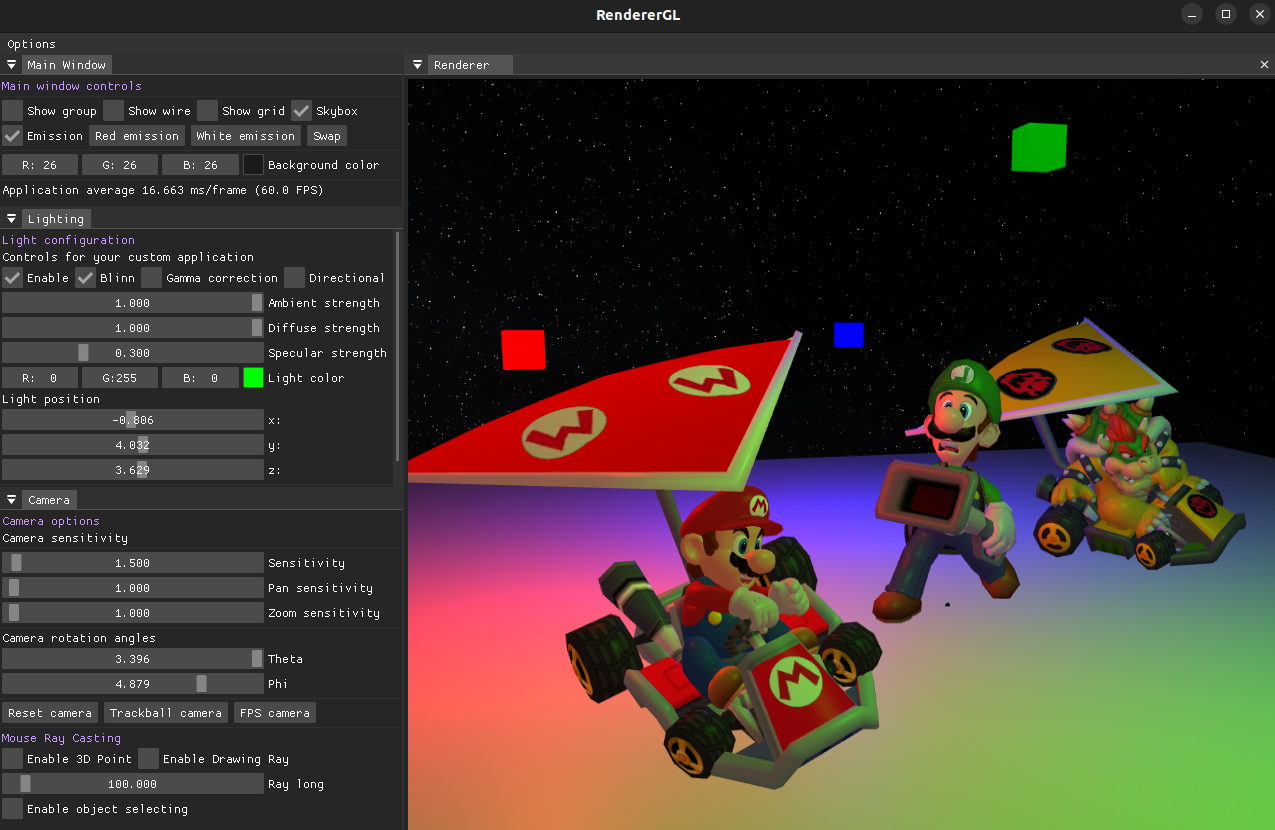
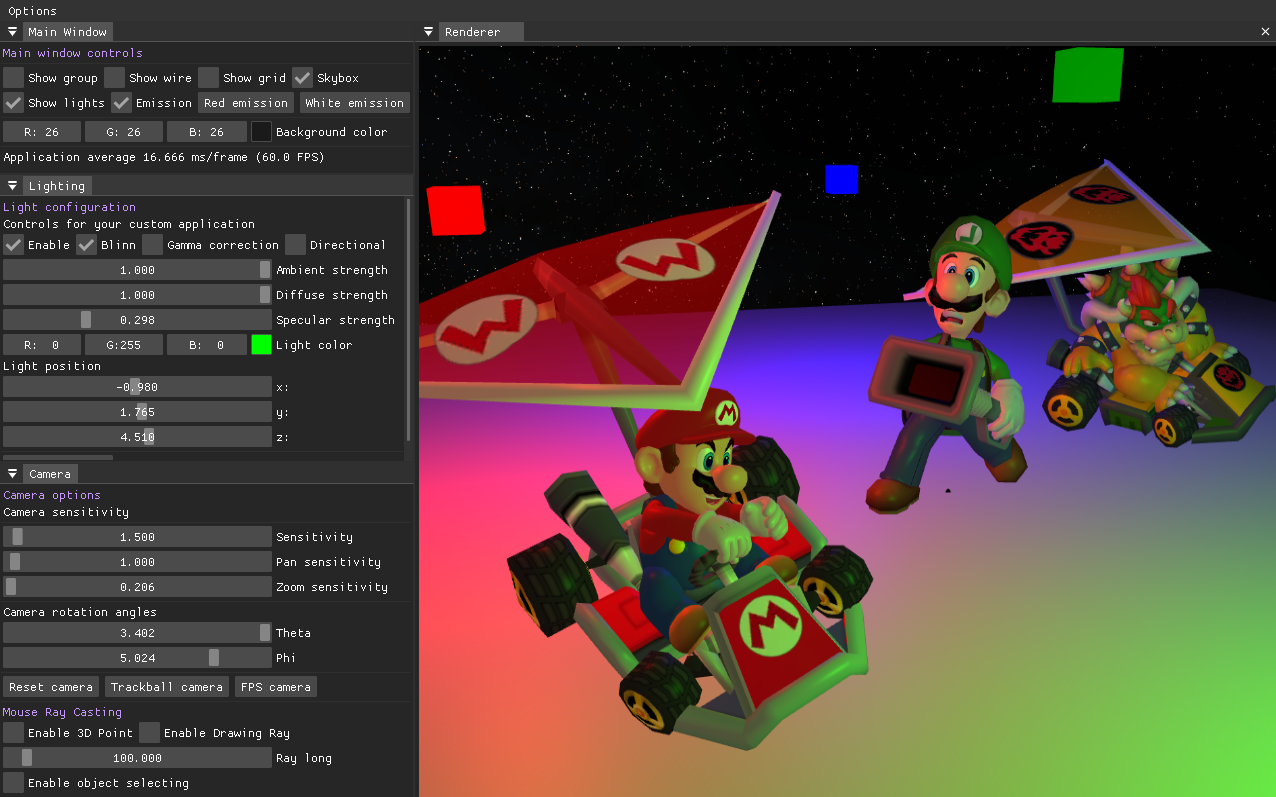
Directional lighting polytope

diff --git a/src/main.cpp b/src/main.cpp
@@ -255,6 +255,18 @@ int main(void) {
 
     renderer.addGroup(lightsGroup);
 
+    // Directional light polytope
+    for(auto& vec : cubeVertices) {
+        glm::vec3 lightColor = light4.getColor();
+        vec.r = lightColor.r;
+        vec.g = lightColor.g;
+        vec.b = lightColor.b;
+    }
+
+    Polytope::Ptr directionalPolytope = Polytope::New(cubeVertices, cubeIndices);
+    directionalPolytope->translate(light4.getPosition());
+    directionalPolytope->scale(glm::vec3(0.25, 0.25, 0.25));
+
     // Dynamic Polytope for mouse picking (ray casting)
     unsigned int length = 5000;
     DynamicPolytope::Ptr mousePickingPolytope = DynamicPolytope::New(length);
@@ -365,6 +377,12 @@ int main(void) {
                 if(!showSkyBox) renderer.setSkyBox(nullptr);
                 else renderer.setSkyBox(skyBox);
 
+                static bool showLights = lightsGroup.isVisible();
+                ImGui::Checkbox("Show lights", &showLights);
+                lightsGroup.setVisible(showLights);
+
+                ImGui::SameLine();
+
                 static bool emission = true;
                 bool tempEmission = emission;
                 ImGui::Checkbox("Emission", &emission);
@@ -433,7 +451,6 @@ int main(void) {
                 static bool enable = false;
                 ImGui::Checkbox("Enable", &enable);
                 renderer.setLightEnabled(enable);
-                lightsGroup.setVisible(enable);
 
                 ImGui::SameLine();
 
@@ -453,8 +470,14 @@ int main(void) {
                 bool previousDirectionalLight = enableDirectionalLight;
                 ImGui::Checkbox("Directional", &enableDirectionalLight);
                 if(enableDirectionalLight != previousDirectionalLight) {
-                    if(enableDirectionalLight) renderer.addLight(light4);
-                    else renderer.removeLight(light4);
+                    if(enableDirectionalLight) {
+                        renderer.addLight(light4);
+                        lightsGroup.add(directionalPolytope);
+                    }
+                    else {
+                        renderer.removeLight(light4);
+                        lightsGroup.removePolytope(directionalPolytope);
+                    }
                     previousDirectionalLight = enableDirectionalLight;
                 }
 
